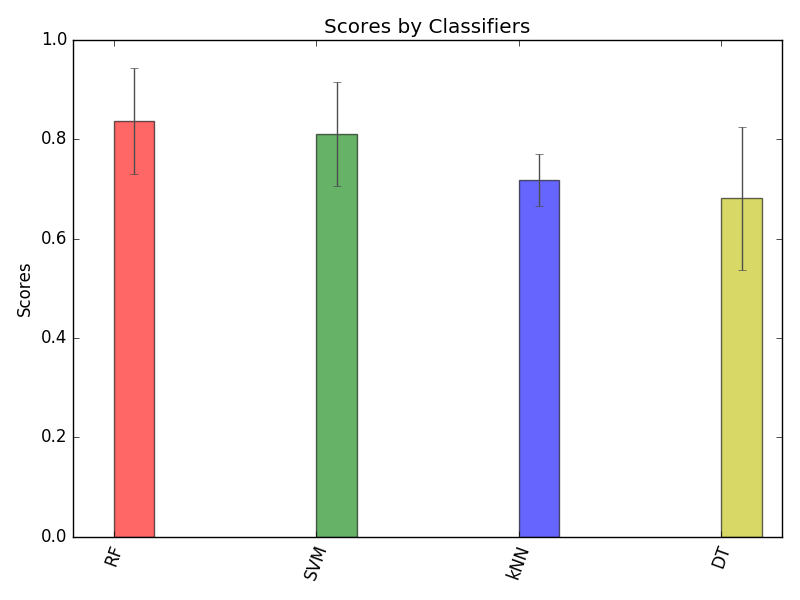
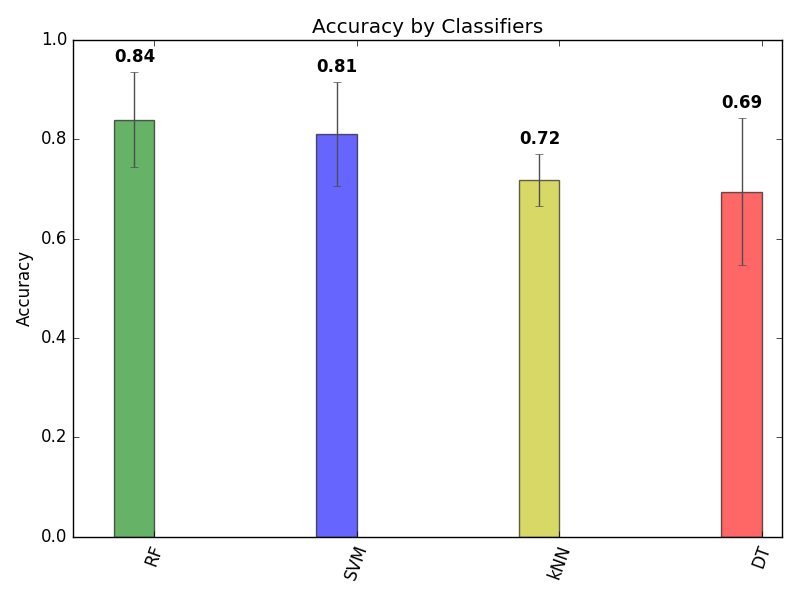
updated plot

diff --git a/ml_analysis/analysis.py b/ml_analysis/analysis.py
@@ -71,7 +71,7 @@ opacity = 0.6
 error_config = {'ecolor': '0.3'}
 fig, ax = plt.subplots()
 index = 0
-colors = ['r', 'g', 'b', 'y']
+colors = ['g', 'b', 'y', 'r']
 for key, value in accuracy.items():
     rects1 = plt.bar(index + bar_width, value[0], bar_width,
                      alpha=opacity,
@@ -79,12 +79,14 @@ for key, value in accuracy.items():
                      yerr=value[1],
                      error_kw=error_config,
                      label=key)
-    index +=1
+    ax.text(index + bar_width, value[0]+value[1] + 0.02, "%0.2f" % (value[0]), color='black', fontweight='bold')
+    index += 1
     print key, value
 
+ax.set_aspect('auto')
 index = np.arange(4)
-plt.ylabel('Scores')
-plt.title('Scores by Classifiers')
-plt.xticks(index + bar_width, ('RF', 'SVM', 'kNN', 'DT'), rotation=70)
-plt.tight_layout()
+plt.ylabel('Accuracy')
+plt.title('Accuracy by Classifiers')
+plt.xticks(index + bar_width + 0.1, ('RF', 'SVM', 'kNN', 'DT'), rotation=70)
+# plt.tight_layout()
 plt.show()
